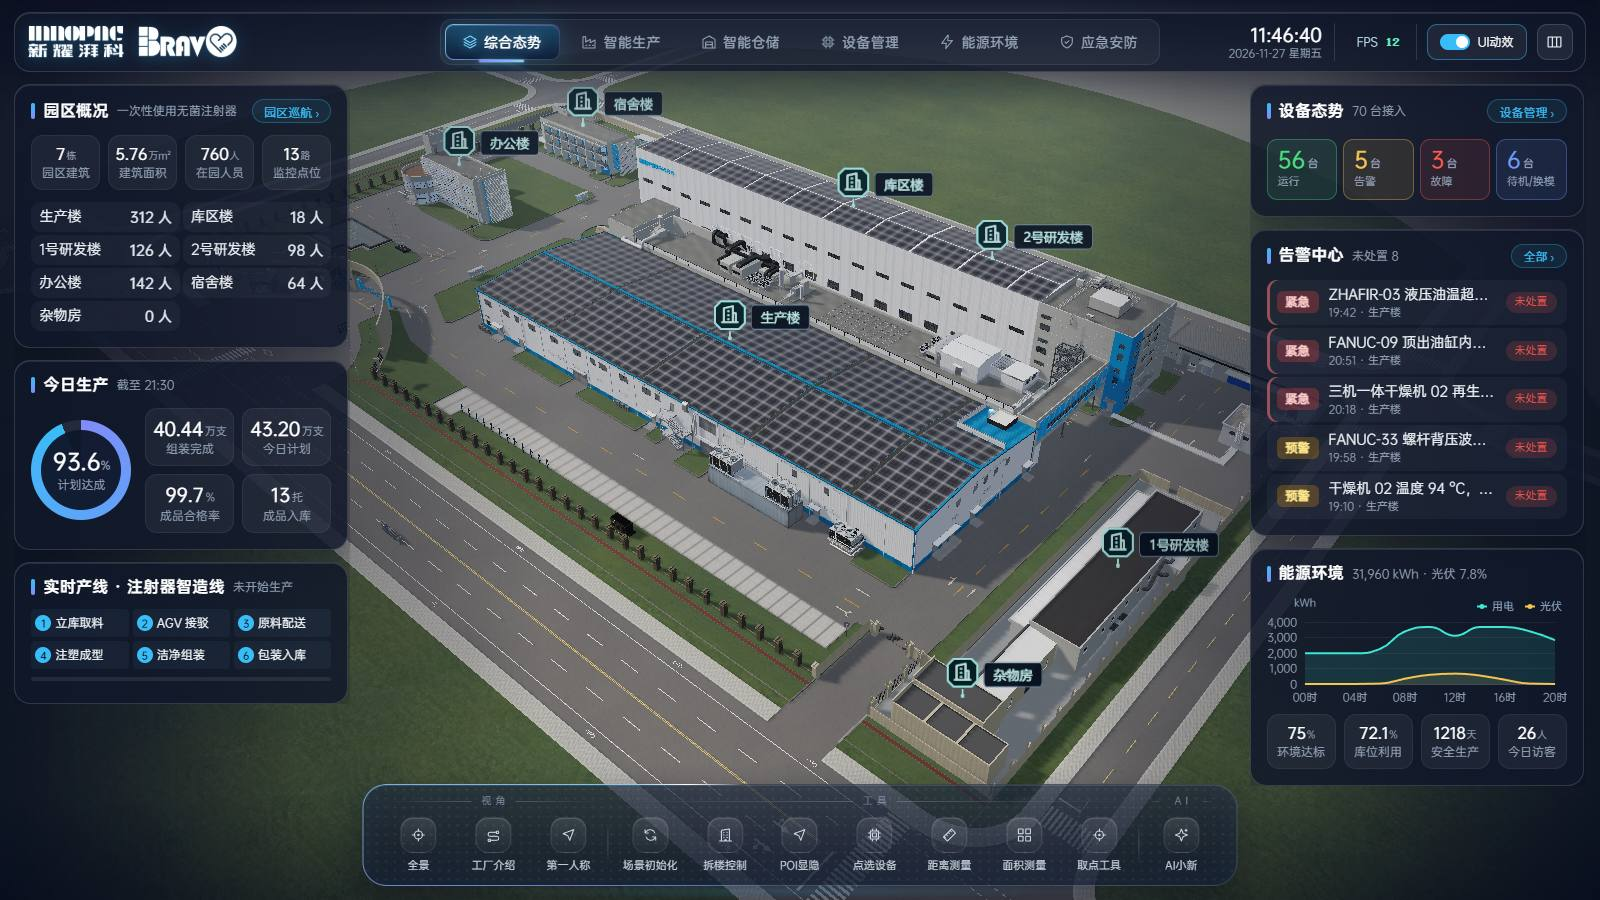
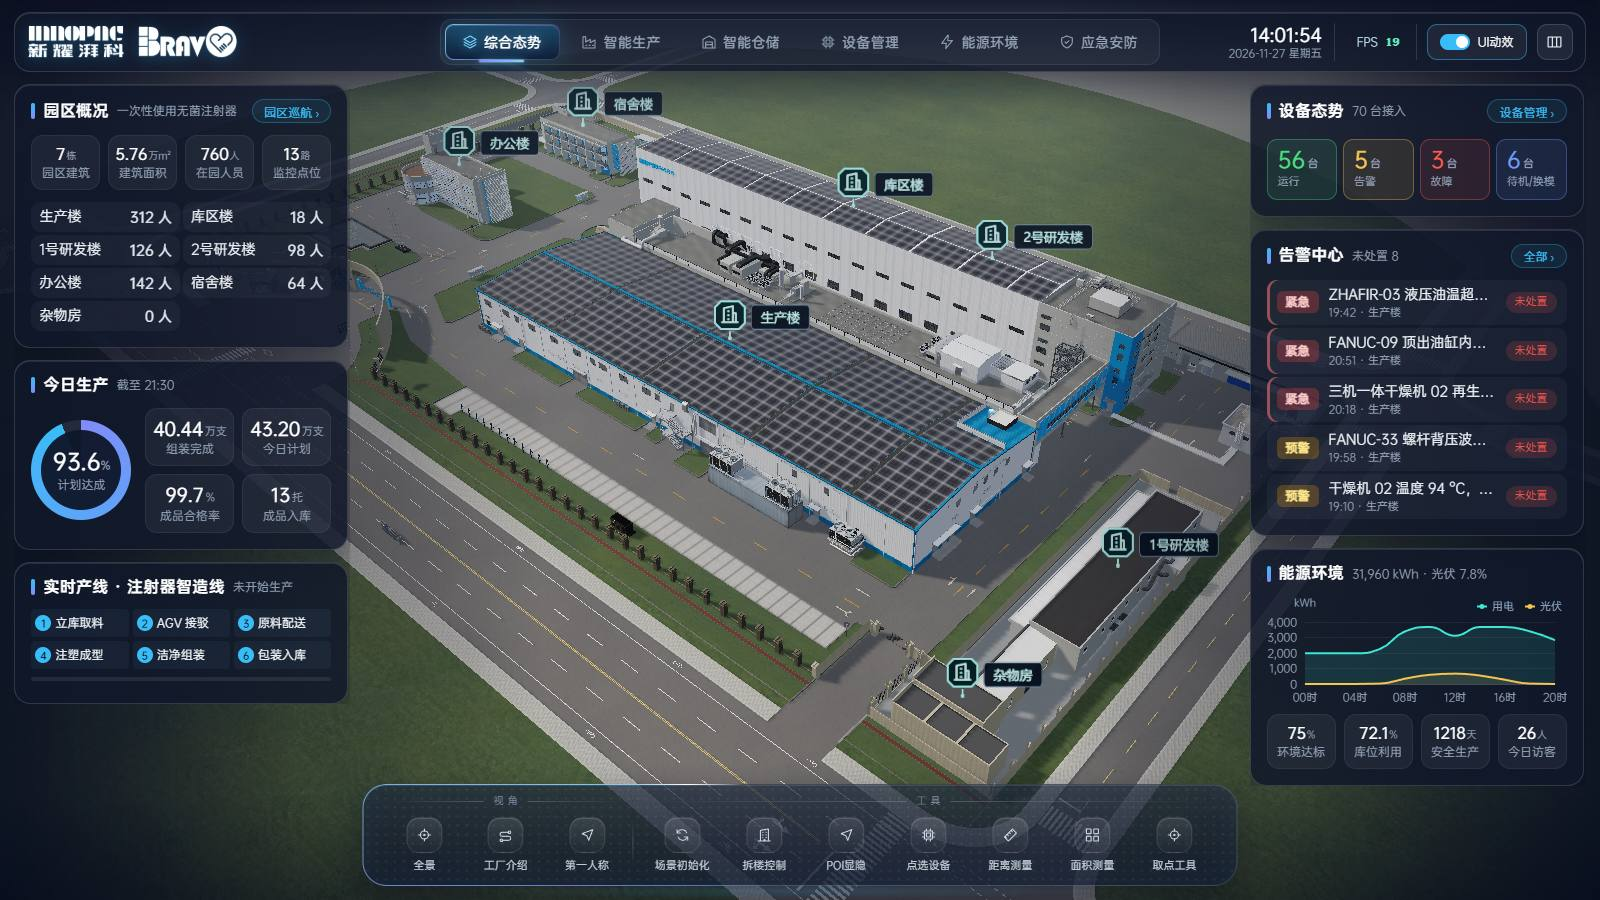
XY工厂：隐藏 AI小新（法务要求暂不开放）
工具栏移除 AI 分组，XY 页面不挂载 AgentChat（Alt+A 不再唤起）；运维手册同步。代码保留，恢复方式见注释。

Changed region(s): [[0.3125, 0.9022, 0.75, 0.9644], [0.7812, 0.0311, 0.8438, 0.0622], [0.25, 0.9022, 0.2812, 0.9644]]

diff --git a/tools/deploy/kylin/运维手册/运维手册.html b/tools/deploy/kylin/运维手册/运维手册.html
@@ -80,7 +80,7 @@
   <div class="grp">大屏</div>
   <a href="#params">10. 地址参数（显存降档等）</a>
   <a href="#browser">11. 浏览器与显卡</a>
-  <a href="#config">12. 现场配置（交付码 / 摄像头 / 密码 / AI）</a>
+  <a href="#config">12. 现场配置（交付码 / 摄像头 / 密码）</a>
   <a href="#scene">13. 场景包替换（一般不涉及）</a>
   <div class="grp">出问题了</div>
   <a href="#emergency">14. 突发情况处理大全</a>
@@ -368,8 +368,8 @@ glxinfo -B | grep -iE "renderer|version"   <span class="c"># 看驱动：rendere
 export TWIN_ADMIN_PASSWORD='Xy@2026!请改'
 <span class="c"># Ctrl+O 回车保存，Ctrl+X 退出</span>
 bash xy.sh restart platform</pre>
-<h3>12.2 AI小新（大模型）</h3>
-<p>推荐在编辑器（<code>http://一体机IP:5186</code> 登录后）「Agent 管理 → 模型配置」里填写，保存在数据库中，立即生效。没有外网时 AI小新会自动退回本地规则模式（能执行常用指令，但不能自由对话）。</p>
+<h3>12.2 AI小新（大模型）· 当前版本未开放</h3>
+<p>大屏上的 AI小新 入口当前版本<b>已隐藏、不对外开放</b>，现场无需配置大模型。后续如开放，由开发发布新版本后，在编辑器「Agent 管理 → 模型配置」里填写即可。</p>
 <figure><img src="img/editor.jpg" alt="TwinStudio 编辑器登录页"><figcaption>TwinStudio 编辑器（5186）：账号 admin，默认密码 admin123（务必按 12.1 修改）</figcaption></figure>
 <h3>12.3 摄像头</h3>
 <p>编辑 <code>local/xy-cameras.yml</code>，把 <code>rtsp://admin:密码@IP:554</code> 改成现场摄像头地址。密码里有 <code>@</code> 要写成 <code>%40</code>。浏览器不支持 H.265，配置中已用 ffmpeg 转成 H.264。</p>
@@ -439,9 +439,6 @@ bash xy.sh restart platform</pre>
 <li>必须通过 <code>http://IP:5186</code> 访问，不要直接访问 5184。</li>
 <li><code>bash xy.sh restart studio platform</code>。</li>
 </ol></details>
-
-<details><summary>AI小新不回答 / 只能执行固定指令</summary>
-<p>没有外网或大模型未配置时会退回本地规则模式。检查编辑器「Agent 管理 → 模型配置」，或 <code>local/xy.env</code> 中的 <code>TWIN_AGENT_LLM_*</code>。大模型服务需要一体机能访问其地址。</p></details>
 
 <details><summary>更新失败：「无法获取更新」/「无法连接 GitHub」</summary>
 <ol class="steps">

diff --git a/src/views/index.vue b/src/views/index.vue
@@ -17,8 +17,9 @@
 
     </template>
 
-    <!-- 场景 AI 助手（twinSDK）：自然语言 → 大模型编排 → 调度三维场景；按案例重建，加载该案例注册的专属能力。XY 场景就绪前不挂载。 -->
-    <AgentChat v-if="!vendorOffline && (caseKey !== 'xy' || xyPageReady)" :key="caseKey" :case-key="caseKey" :class="{ 'ai-in-xy': caseKey === 'xy' }" />
+    <!-- 场景 AI 助手（twinSDK）：自然语言 → 大模型编排 → 调度三维场景；按案例重建，加载该案例注册的专属能力。
+         XY（新耀工厂）的 AI小新 暂不开放（法务要求），不挂载；恢复时去掉 caseKey !== 'xy' 条件，改回 (caseKey !== 'xy' || xyPageReady)。 -->
+    <AgentChat v-if="!vendorOffline && caseKey !== 'xy'" :key="caseKey" :case-key="caseKey" />
 
     <!--  右侧工具栏 -->
     <template v-slot:aside-right-tools>

diff --git a/src/views/xy_factory/operations.js b/src/views/xy_factory/operations.js
@@ -35,9 +35,10 @@ export const toolGroups = [
     { id: "area", name: "面积测量", icon: "layout", scene: true },
     { id: "coords", name: "取点工具", icon: "target", scene: true },
   ] },
-  { name: "AI", items: [
-    { id: "assistant", name: "AI小新", icon: "assistant" },
-  ] },
+  // AI 分组（AI小新）暂不开放（法务要求）：恢复时取消注释，并在 views/index.vue 恢复 XY 的 AgentChat 挂载。
+  // { name: "AI", items: [
+  //   { id: "assistant", name: "AI小新", icon: "assistant" },
+  // ] },
 ];
 
 // 业务模块内的专题功能（显示在对应模块面板的“专题”卡中）。
